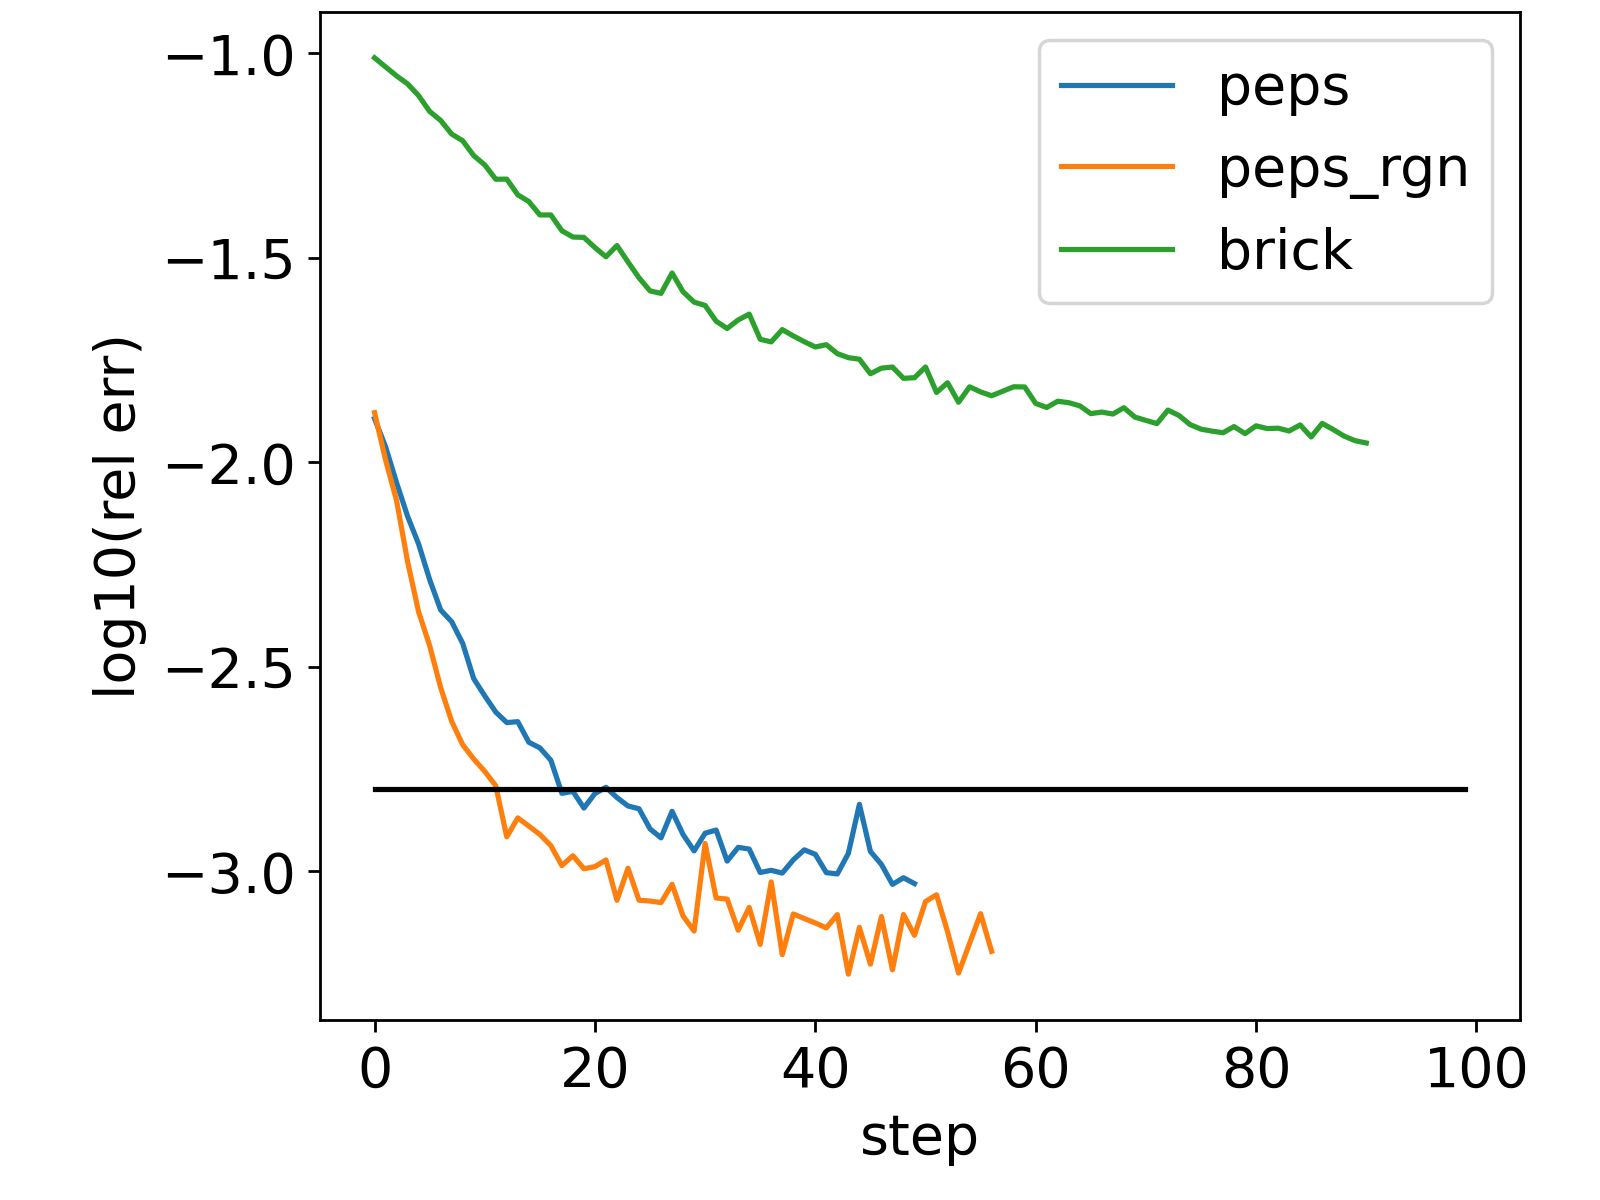
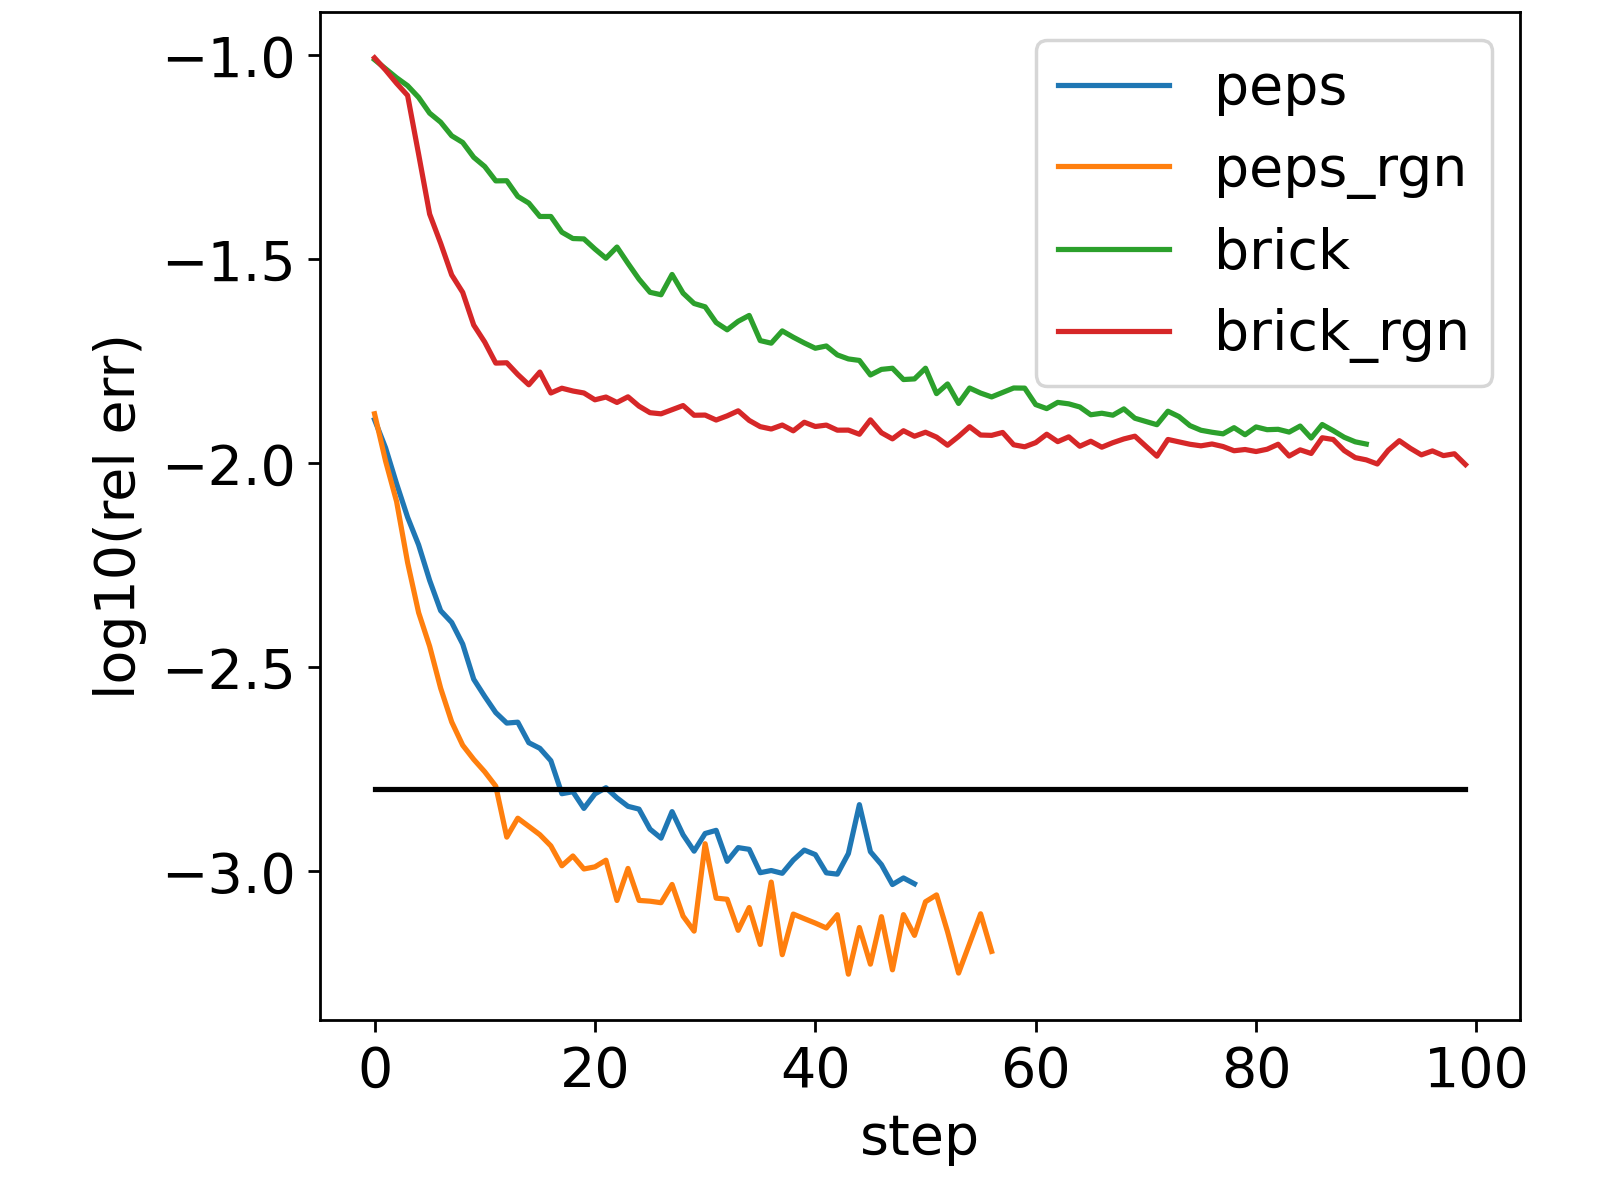
push

diff --git a/j1j2_8x8/D4/plot.py b/j1j2_8x8/D4/plot.py
@@ -11,7 +11,7 @@ exact = -0.48373
 ref = -0.48296
 fig,ax = plt.subplots(nrows=1,ncols=1)
 
-for tmpdir in ('peps','peps_rgn','brick'):
+for tmpdir in ('peps','peps_rgn','brick','brick_rgn'):
     out = open(tmpdir+'/summary.out', 'r').readlines()
     e = []
     for l in out:
